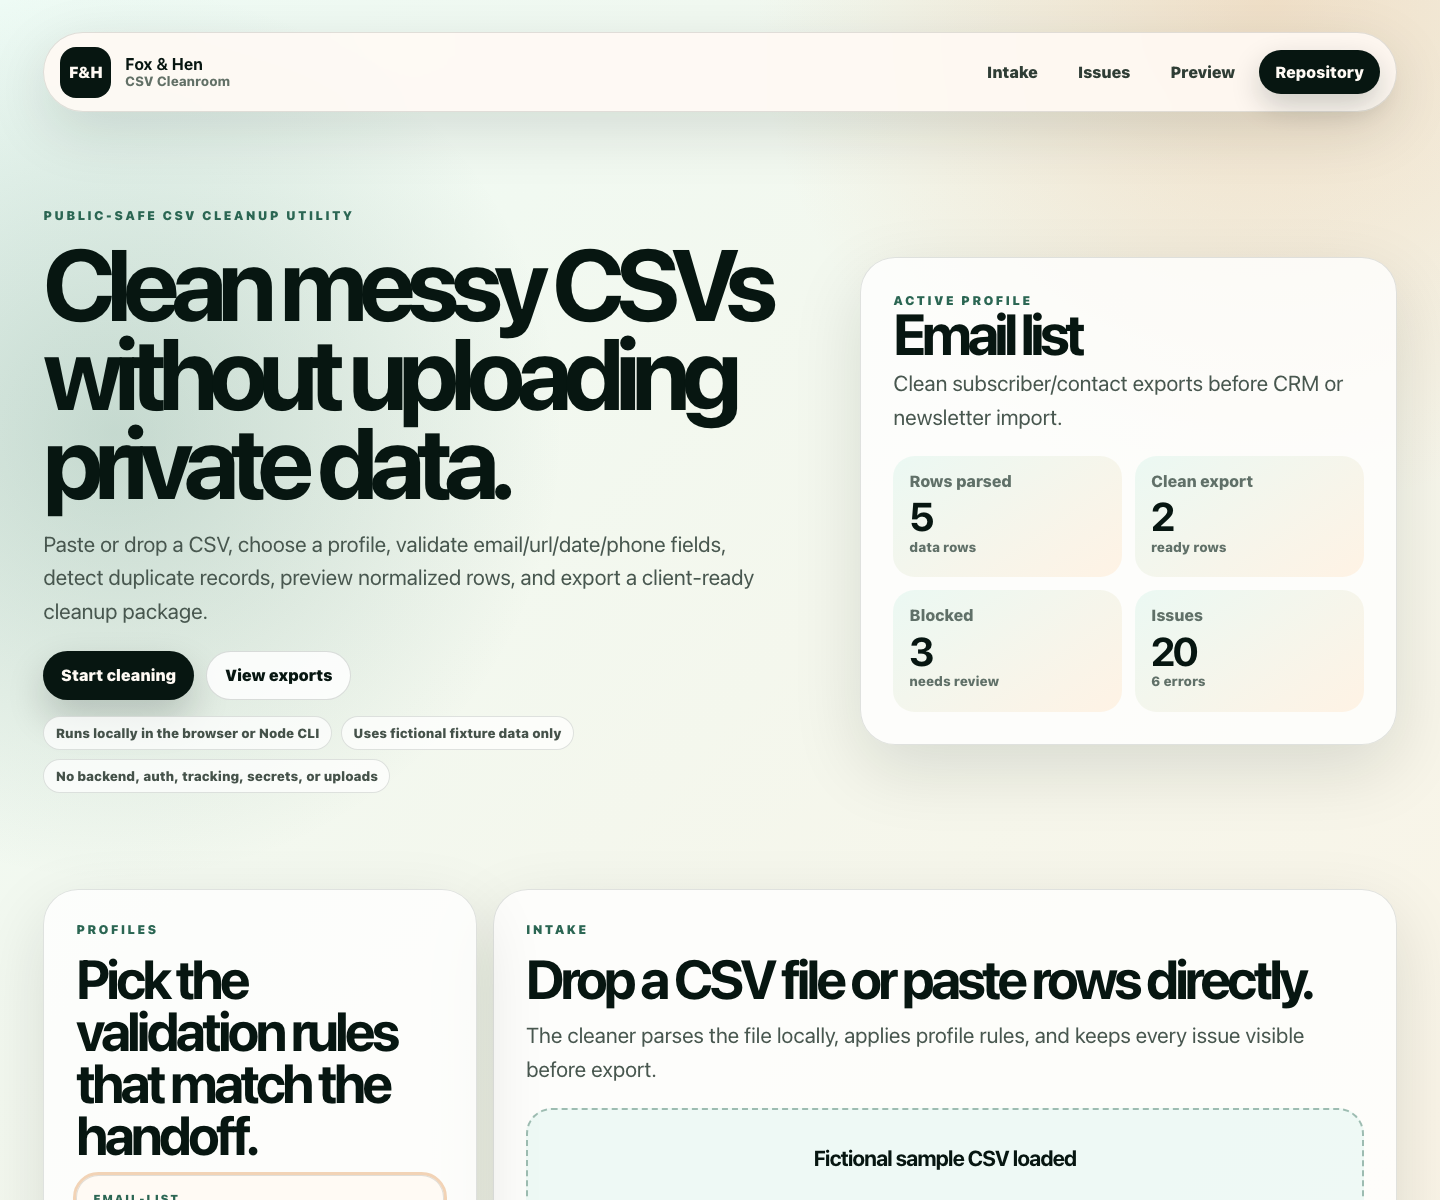
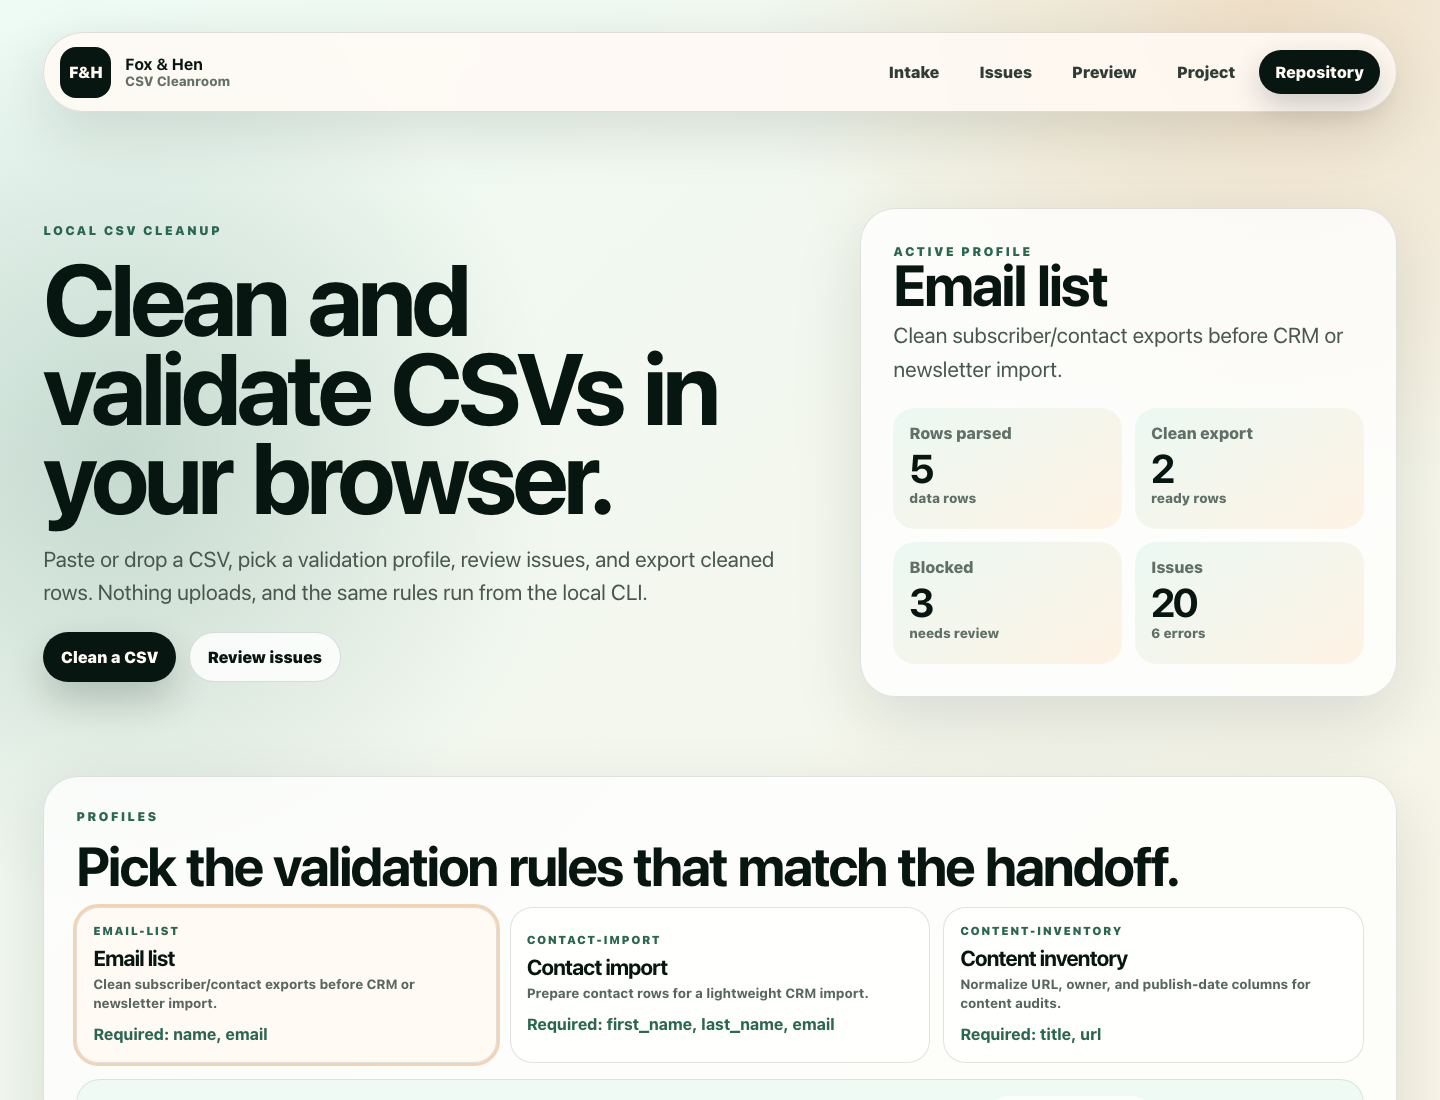
Polish CSV Cleanroom for public promotion
Improve mobile layout containment and keyboard focus behavior, make repository documentation links explicitly external, and refresh the README and social preview imagery.\n\nValidation: npm test; npm run build.

diff --git a/src/App.tsx b/src/App.tsx
@@ -51,12 +51,12 @@ function App() {
             <small>CSV Cleanroom</small>
           </span>
         </a>
-        <nav>
+        <nav aria-label="Primary navigation">
           <a href="#intake">Intake</a>
           <a href="#issues">Issues</a>
           <a href="#preview">Preview</a>
           <a href="#project">Project</a>
-          <a className="nav-button" href="https://github.com/foxandhenllc/foxhen-csv-cleanroom">Repository</a>
+          <a className="nav-button" href="https://github.com/foxandhenllc/foxhen-csv-cleanroom" target="_blank" rel="noreferrer">Repository</a>
         </nav>
       </header>
 
@@ -120,8 +120,8 @@ function App() {
               CSV Cleanroom keeps validation logic shared between the browser app and Node CLI, with synthetic fixtures, contribution docs, issue templates, and CI checks for maintainers.
             </p>
             <div className="hero-actions">
-              <a className="primary-action" href="https://github.com/foxandhenllc/foxhen-csv-cleanroom/blob/main/CONTRIBUTING.md">Contribute</a>
-              <a className="secondary-action" href="https://github.com/foxandhenllc/foxhen-csv-cleanroom/blob/main/ROADMAP.md">Roadmap</a>
+              <a className="primary-action" href="https://github.com/foxandhenllc/foxhen-csv-cleanroom/blob/main/CONTRIBUTING.md" target="_blank" rel="noreferrer">Contribute</a>
+              <a className="secondary-action" href="https://github.com/foxandhenllc/foxhen-csv-cleanroom/blob/main/ROADMAP.md" target="_blank" rel="noreferrer">Roadmap</a>
             </div>
           </div>
           <div className="project-health-grid">

diff --git a/src/styles.css b/src/styles.css
@@ -782,6 +782,7 @@ td small {
 }
 
 @media (max-width: 720px) {
+  body { overflow-x: hidden; }
   .site-header {
     position: relative;
     top: auto;
@@ -811,6 +812,11 @@ td small {
     padding: 2.5rem 0 2rem;
   }
 
+  main, .hero > * { min-width: 0; }
+  .hero-actions { display: grid; grid-template-columns: 1fr; }
+  .hero-actions > * { width: 100%; justify-content: center; }
+  .hero-console { min-width: 0; overflow: hidden; }
+
   .summary-grid,
   .use-case-strip,
   .profile-grid,
@@ -820,7 +826,8 @@ td small {
   }
 
   h1 {
-    font-size: clamp(2.7rem, 16vw, 4.5rem);
+    font-size: clamp(2.55rem, 13vw, 4rem);
+    overflow-wrap: anywhere;
   }
 
   .custom-profile-row {
